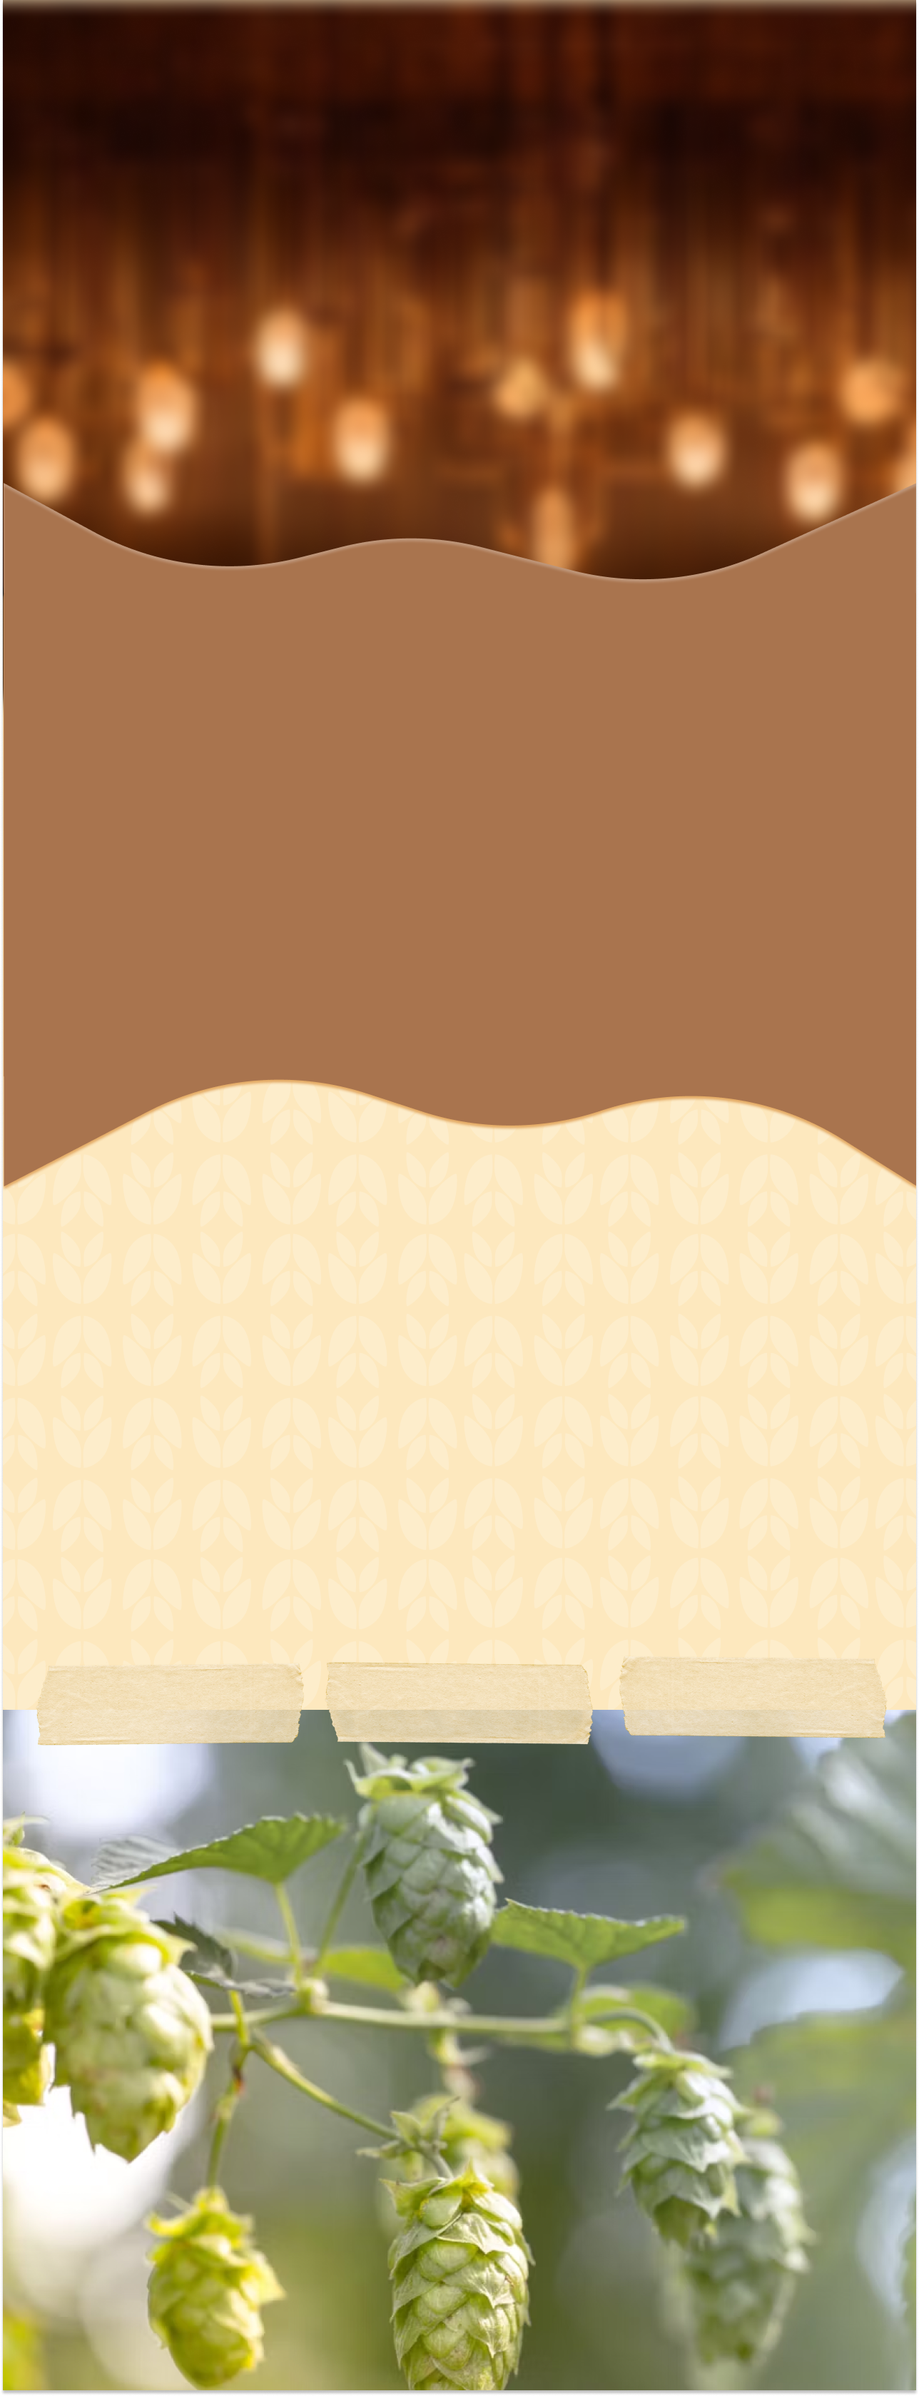
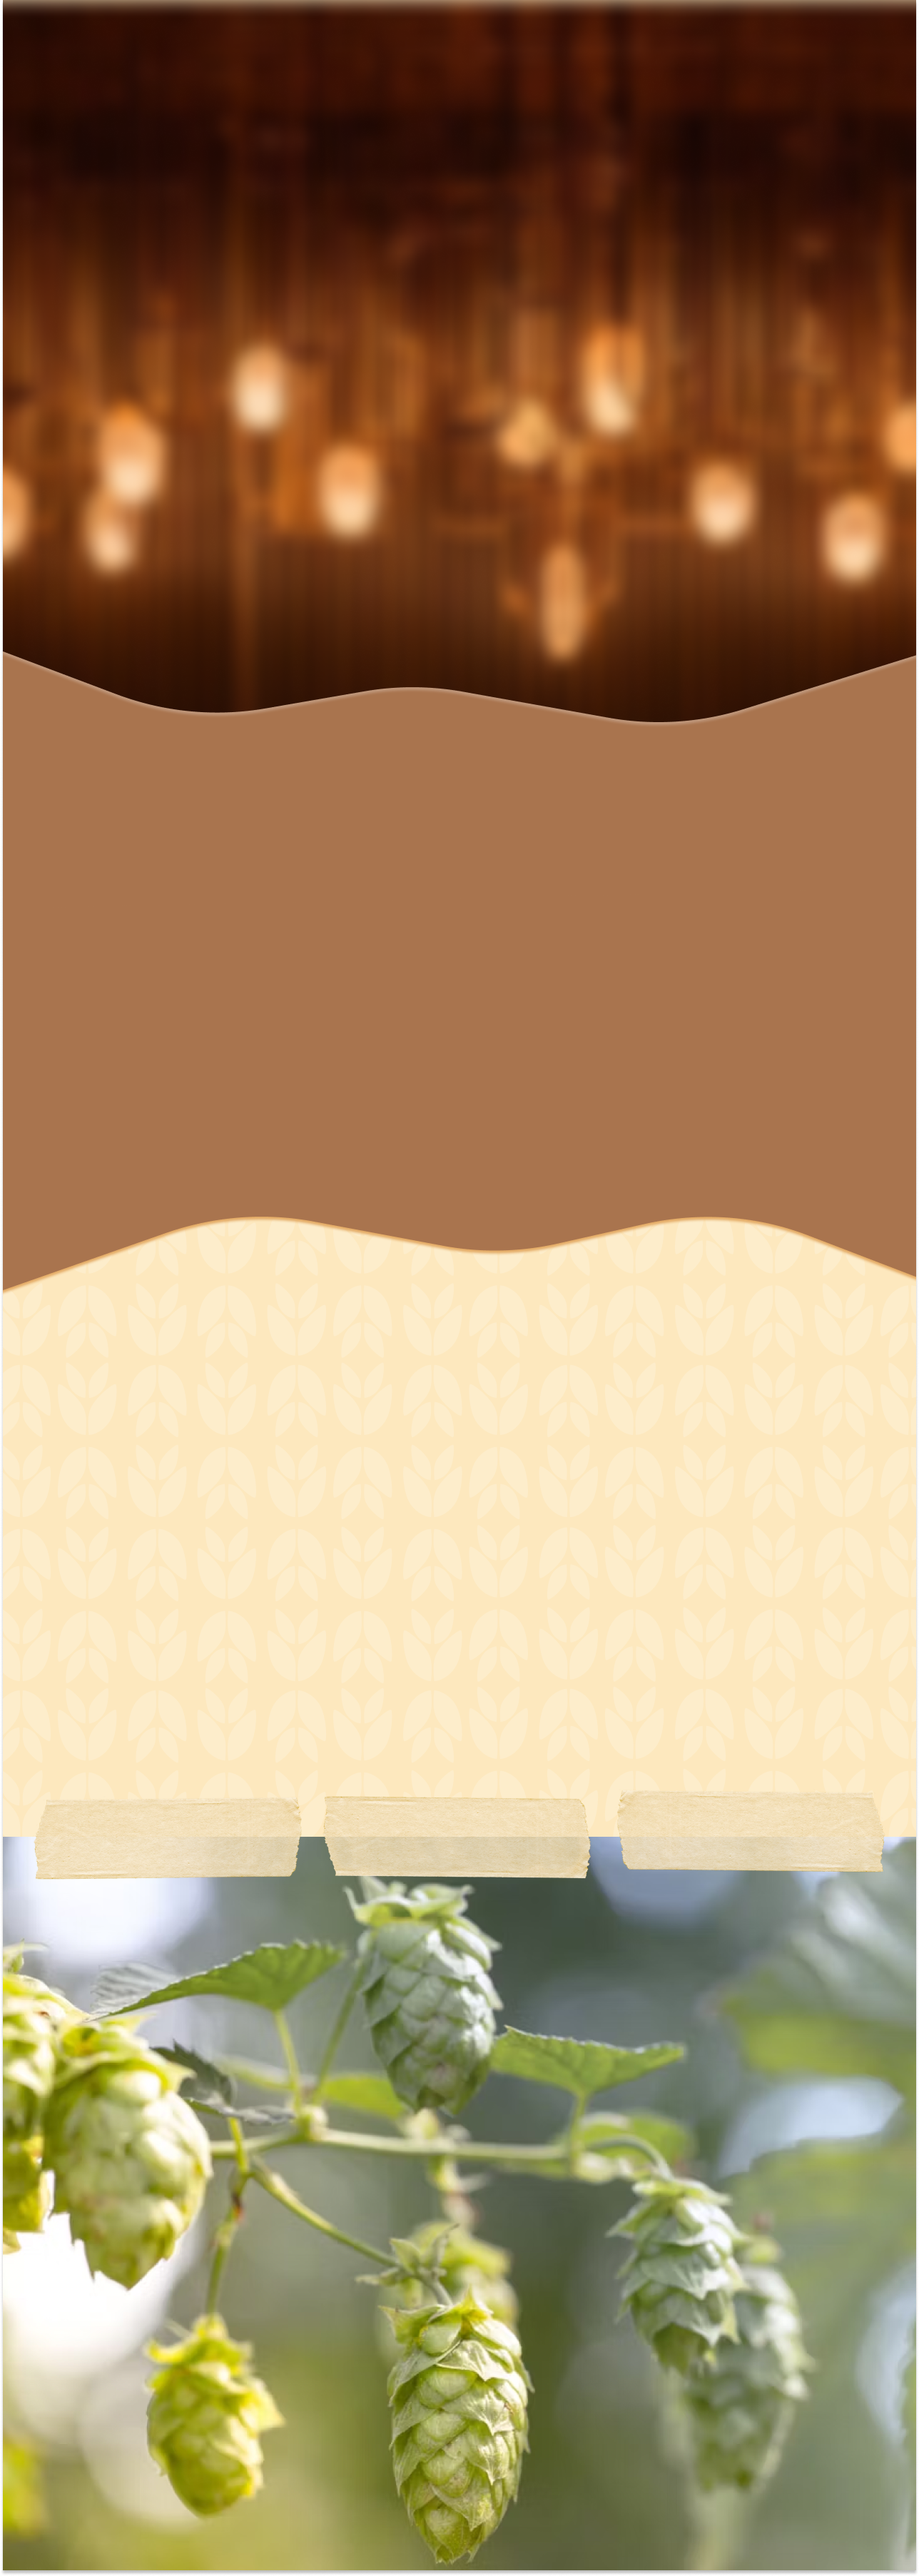
Forside opdateret

diff --git a/index.html b/index.html
@@ -16,7 +16,7 @@
     <link rel="stylesheet" href="css/style.css">
 </head>
 <body>
-    <img class="startimg" src="img/ny-forside.webp" alt="">
+    <img class="startimg" src="img/ny-forside.png" alt="">
     <nav class="navbar">
         <a class="logo" href="index.html"><img src="img/creme-bee.svg" alt="Logo"></a>
         <ul class="nav-links">
@@ -33,6 +33,12 @@
         <h2>brew</h2>
         <img id="logo" src="img/bee-logo.svg" alt="Logo">
     </section>
+
+    <main>
+        <section class="">
+            <img src="img/forside-beer.webp" alt="">
+        </section>
+    </main>
 
 
 <footer>

diff --git a/css/style.css b/css/style.css
@@ -183,6 +183,13 @@ h2{
     mask-image: linear-gradient(to bottom, transparent, rgb(0, 0, 0) 4%, white 95%, transparent);
 }
 
+main img{
+    position: absolute;
+    z-index: 5;
+    top: 118%;
+    left: 5%;
+}
+
 
 
 
